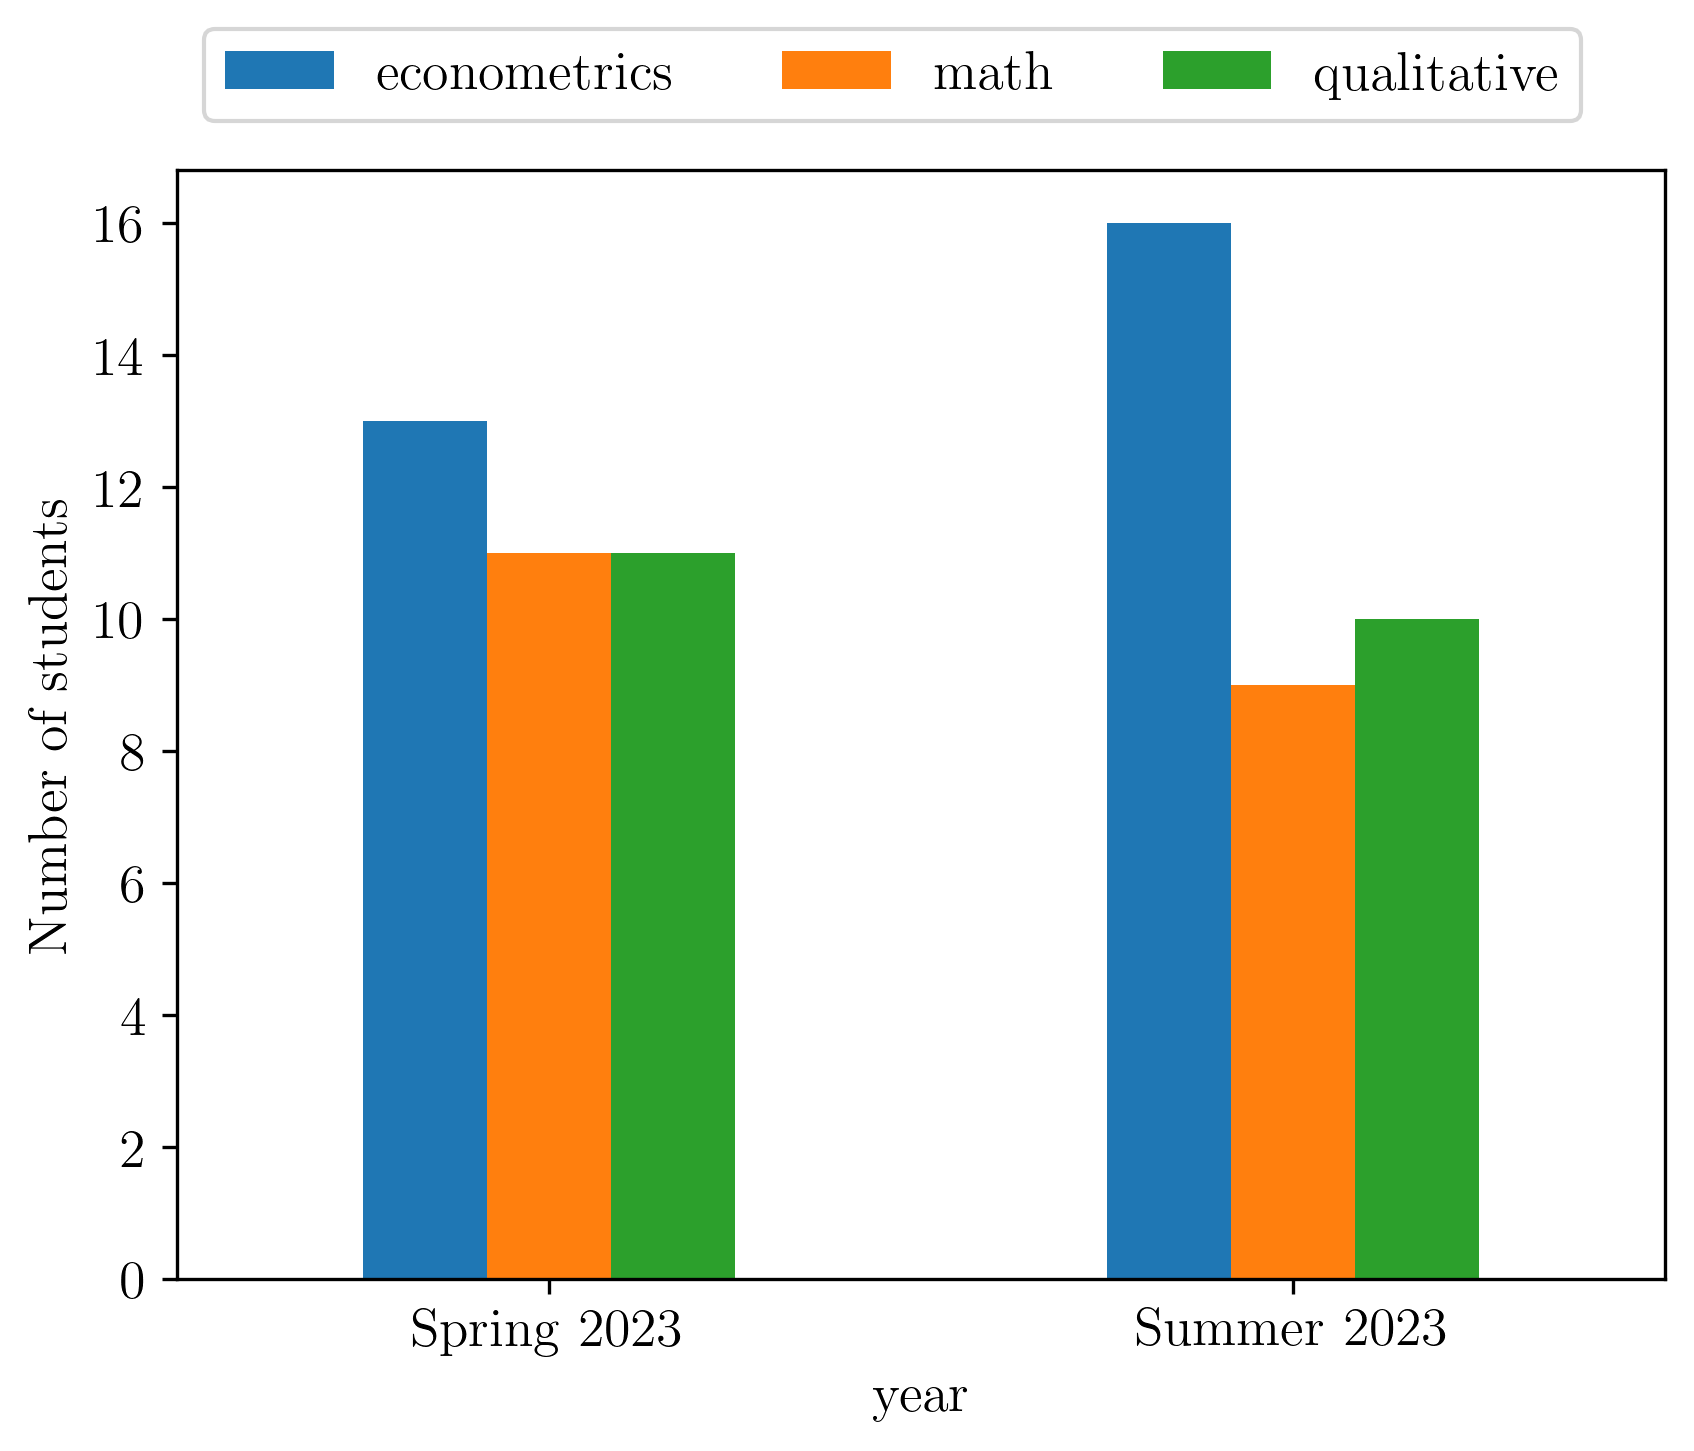
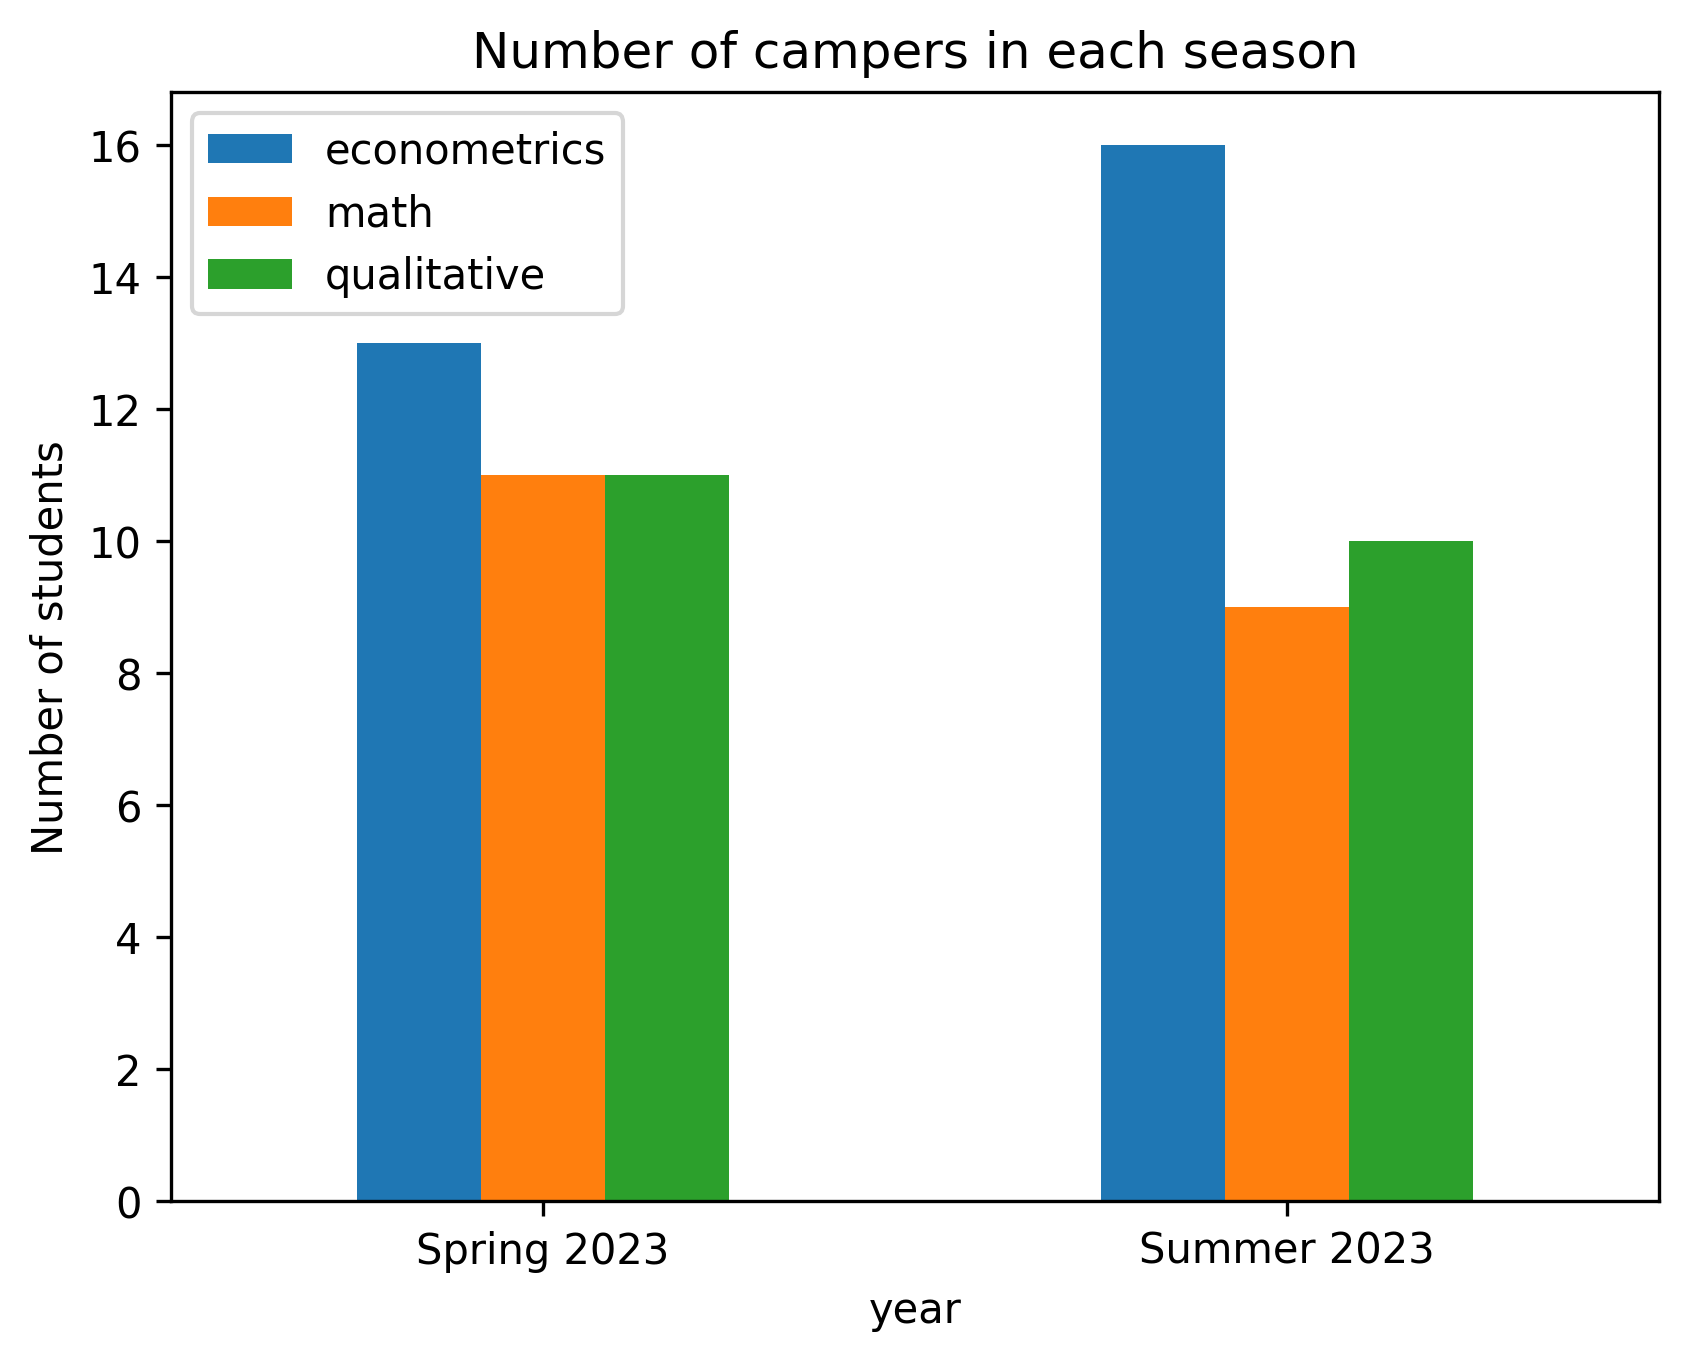
fix img

diff --git a/visualize.py b/visualize.py
@@ -19,20 +19,15 @@ df2 = df.groupby('year').sum()
 df2['season'] = np.where(df2.index.month == 3, 'Spring', 'Summer')
 df2['season_year'] = df2['season'] + ' ' + df2.index.year.astype(str)
 
-# use latex font
-plt.rc('text', usetex=True)
-plt.rc('font', family='serif')
-# use font size 18
-plt.rcParams.update({'font.size': 13})
+
 # plot bar chart
 df2.plot.bar()
-
-# legend above the plot horizontal
-plt.legend(bbox_to_anchor=(0., 1.02, 1., .102), loc='lower left', ncol=3)
 
 # label x-ticks with season_year
 plt.xticks(np.arange(len(df2.index)), df2['season_year'], rotation=0)
 plt.ylabel('Number of students')
+plt.title('Number of campers in each season')
+plt.legend(loc='upper left')
 
 # save png
 plt.savefig('no_of_stu.png', dpi=300, bbox_inches='tight', pad_inches=0.1)
